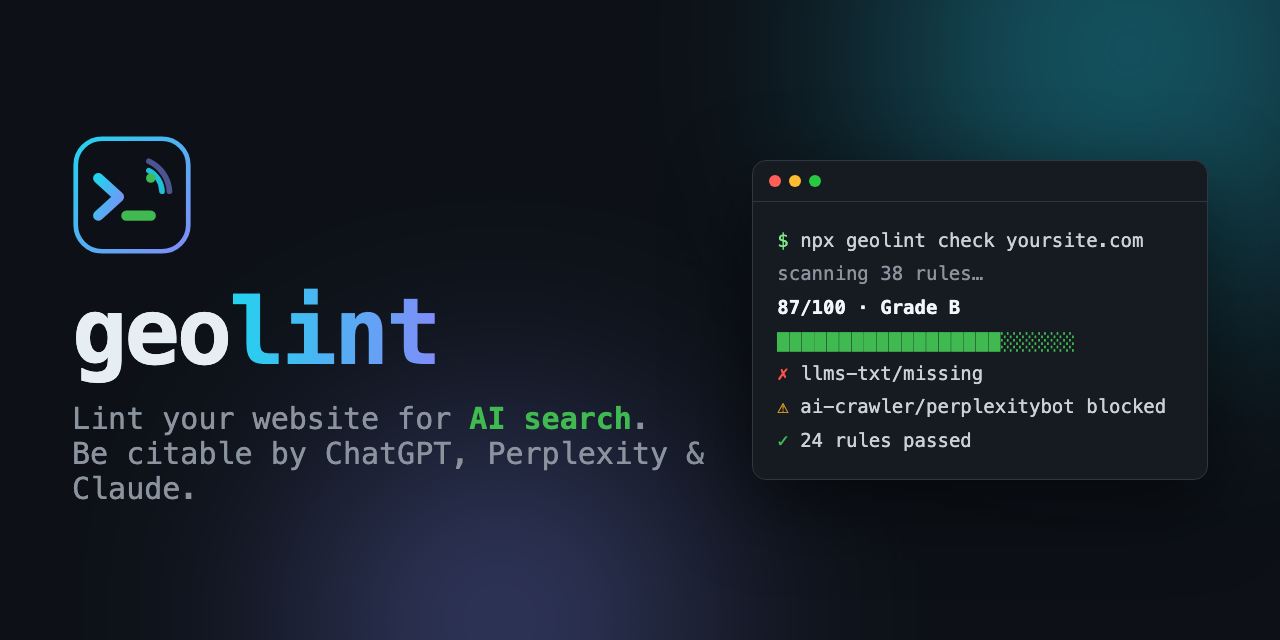
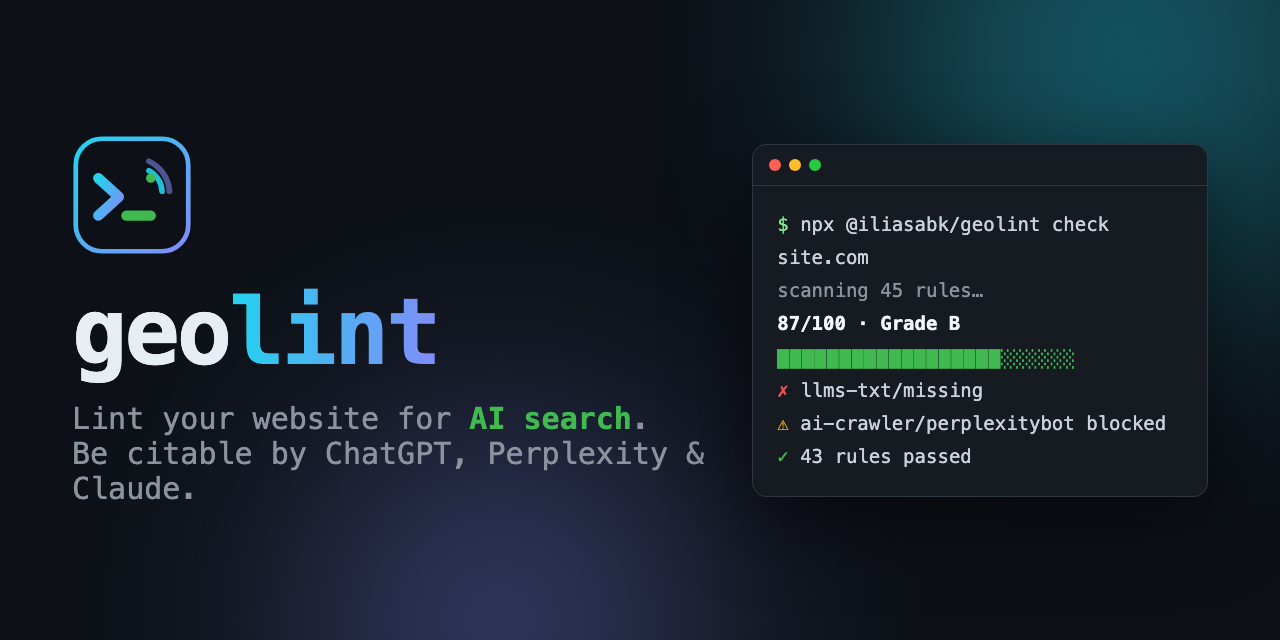
docs: update social preview for scoped package name

Changed region(s): [[0.5938, 0.3125, 0.9062, 0.75], [0.75, 0.2188, 0.9375, 0.25], [0.5938, 0.25, 0.6562, 0.3125]]

diff --git a/media/social.html b/media/social.html
@@ -49,13 +49,13 @@
   <div class="term">
     <div class="term-bar"><div class="dot" style="background:#ff5f57"></div><div class="dot" style="background:#febc2e"></div><div class="dot" style="background:#28c840"></div></div>
     <div class="term-body">
-      <div><span class="p">$</span> npx geolint check yoursite.com</div>
-      <div class="dim">scanning 38 rules…</div>
+      <div><span class="p">$</span> npx @iliasabk/geolint check site.com</div>
+      <div class="dim">scanning 45 rules…</div>
       <div class="score">87/100 · Grade B</div>
       <div class="bar">██████████████████░░░░░░</div>
       <div><span class="err">✗</span> llms-txt/missing</div>
       <div><span class="warn">⚠</span> ai-crawler/perplexitybot blocked</div>
-      <div><span class="ok">✓</span> 24 rules passed</div>
+      <div><span class="ok">✓</span> 43 rules passed</div>
     </div>
   </div>
 </body>
